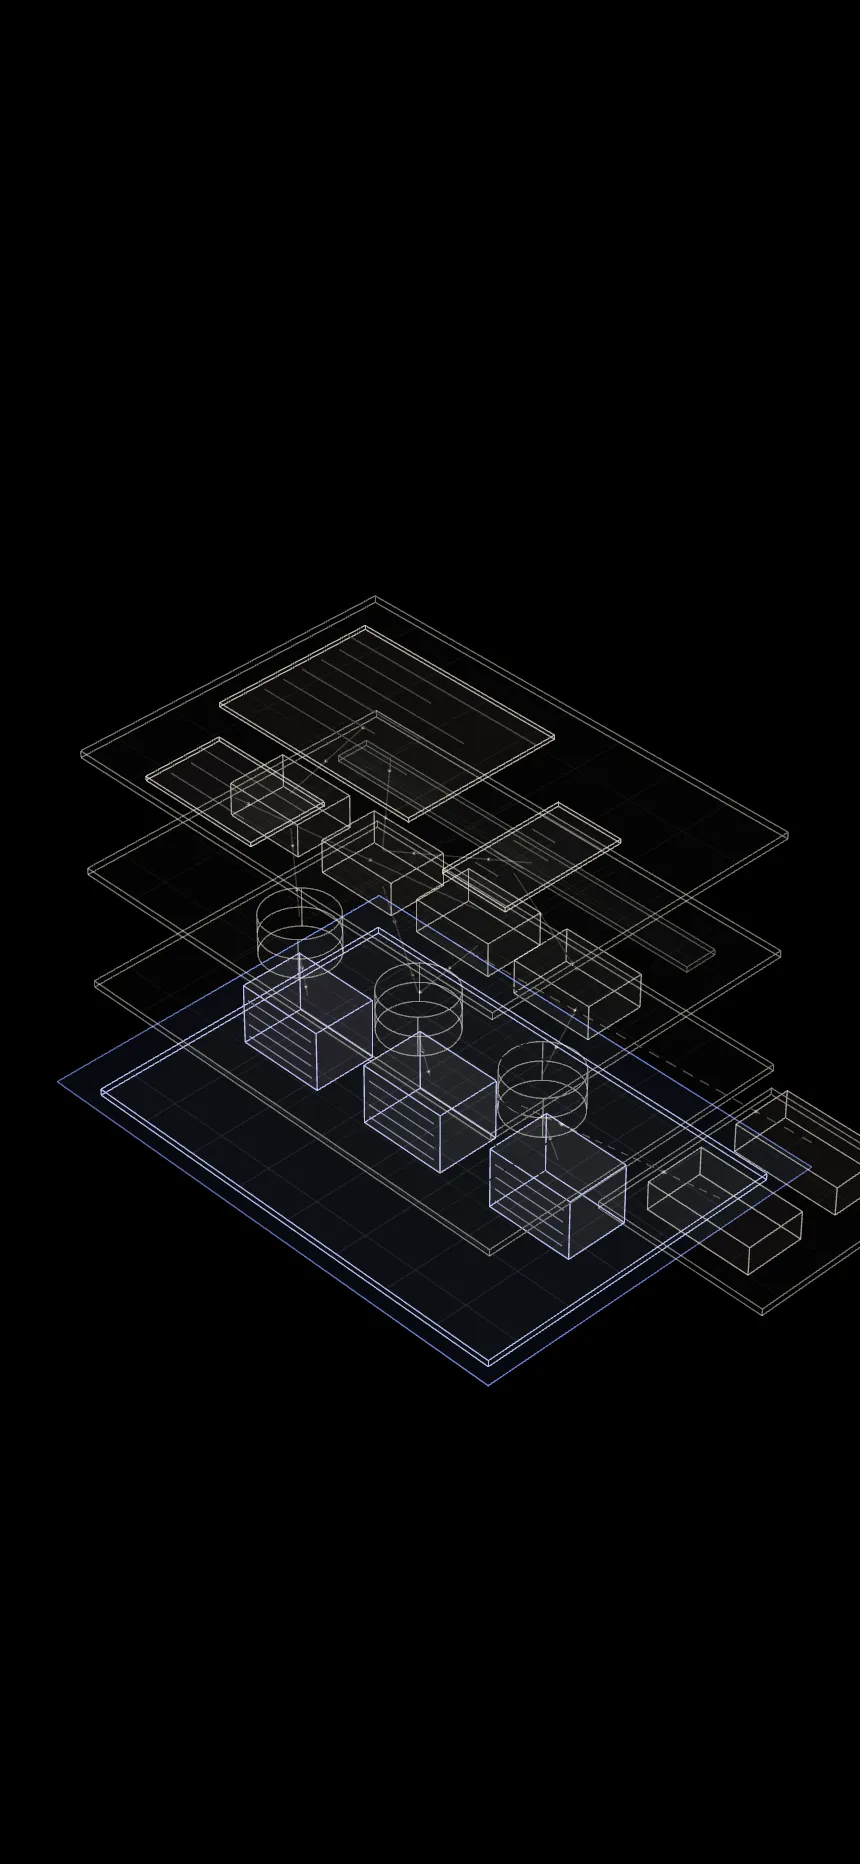
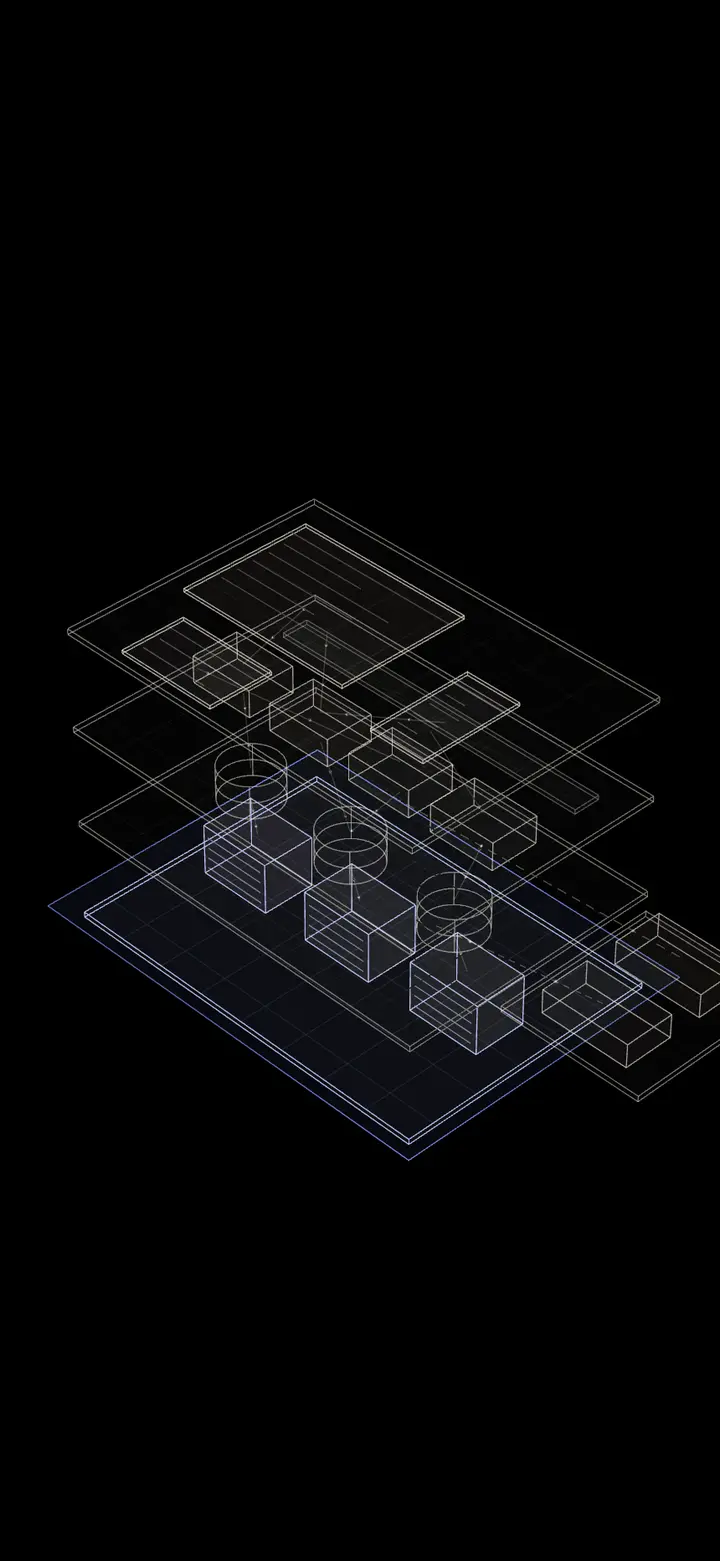
perf+a11y: revisão de qualidade
- Acessibilidade: axe-core sem violações (WCAG A/AA) em 4 páginas e duas
  larguras, com testes automatizados; nome do link de idioma, contraste da
  introdução, rótulo da navegação, âncoras sob o cabeçalho e foco em
  elementos ocultos pelo parallax.
- Desempenho: Three.js e GSAP depois do carregamento; no celular, só na
  primeira interação. Imagens de celular menores. A cena volta a pausar
  quando a galeria ou a seção "sobre" cobrem a tela.
- Servidor local comprime respostas para medições comparáveis.

diff --git a/components/hero/SceneStage.tsx b/components/hero/SceneStage.tsx
@@ -2,6 +2,7 @@
 
 import { useEffect, useRef, useState } from "react";
 import { sceneBus } from "@/lib/sceneBus";
+import { afterInteractionOnTouch } from "@/lib/afterLoad";
 import type { Dictionary } from "@/content/site";
 
 type Props = { map: Dictionary["hero"]["map"] };
@@ -80,18 +81,28 @@ export default function SceneStage({ map }: Props) {
       };
       if (fine && !reduced) window.addEventListener("pointermove", onMove, { passive: true });
 
-      // suspende a renderização quando nenhuma seção que mostra a cena está visível
-      const visible = new Set<Element>();
+      // suspende a renderização quando uma seção opaca cobre a tela inteira
+      // (galeria, "sobre") ou quando a aba fica em segundo plano
+      const opaque = Array.from(document.querySelectorAll<HTMLElement>("[data-opaque]"));
       let pageVisible = !document.hidden;
-      const sync = () => scene.setActive(pageVisible && visible.size > 0);
-      const io = new IntersectionObserver(
-        (entries) => {
-          entries.forEach((en) => (en.isIntersecting ? visible.add(en.target) : visible.delete(en.target)));
-          sync();
-        },
-        { rootMargin: "10% 0px" },
-      );
-      document.querySelectorAll("[data-scene]").forEach((el) => io.observe(el));
+      let pending = false;
+      const sync = () => {
+        pending = false;
+        const vh = window.innerHeight;
+        const covered = opaque.some((el) => {
+          const r = el.getBoundingClientRect();
+          return r.top <= 0 && r.bottom >= vh;
+        });
+        scene.setActive(pageVisible && !covered);
+      };
+      const onScroll = () => {
+        if (pending) return;
+        pending = true;
+        requestAnimationFrame(sync);
+      };
+      window.addEventListener("scroll", onScroll, { passive: true });
+      window.addEventListener("resize", onScroll, { passive: true });
+      sync();
       const onVis = () => {
         pageVisible = !document.hidden;
         sync();
@@ -103,17 +114,16 @@ export default function SceneStage({ map }: Props) {
         mobileQuery.removeEventListener("change", onMq);
         window.removeEventListener("pointermove", onMove);
         document.removeEventListener("visibilitychange", onVis);
-        io.disconnect();
+        window.removeEventListener("scroll", onScroll);
+        window.removeEventListener("resize", onScroll);
         scene.destroy();
       };
     };
 
-    const idle = (cb: () => void) => {
-      const w = window as Window & { requestIdleCallback?: Window["requestIdleCallback"] };
-      if (typeof w.requestIdleCallback === "function") w.requestIdleCallback(cb, { timeout: 600 });
-      else setTimeout(cb, 120);
-    };
-    idle(() => void start());
+    // a cena só carrega depois da página; até lá a imagem estática idêntica fica no lugar
+    void afterInteractionOnTouch().then(() => {
+      if (!disposed) void start();
+    });
 
     return () => {
       disposed = true;

diff --git a/components/site/ScrollDirector.tsx b/components/site/ScrollDirector.tsx
@@ -2,6 +2,7 @@
 
 import { useEffect } from "react";
 import { sceneBus } from "@/lib/sceneBus";
+import { afterInteractionOnTouch } from "@/lib/afterLoad";
 
 /**
  * Liga o scroll nativo (sem sequestro de rolagem) à câmera da cena e às
@@ -14,6 +15,9 @@ export default function ScrollDirector() {
     let cancelled = false;
 
     (async () => {
+      // no celular, só quando a pessoa começa a interagir: os efeitos dependem do scroll
+      await afterInteractionOnTouch();
+      if (cancelled) return;
       const [{ gsap }, { ScrollTrigger }] = await Promise.all([import("gsap"), import("gsap/ScrollTrigger")]);
       if (cancelled) return;
       gsap.registerPlugin(ScrollTrigger);
@@ -78,17 +82,19 @@ export default function ScrollDirector() {
           scrollTrigger: { trigger: "#inicio", start: "top top", end: "bottom top", scrub: 0.6 },
         });
         heroTl
-          .to("[data-parallax='first']", { xPercent: -14, yPercent: -40, opacity: 0.0, ease: "none" }, 0)
-          .to("[data-parallax='last']", { xPercent: 12, yPercent: 50, opacity: 0.0, ease: "none" }, 0)
-          .to("[data-parallax='copy']", { y: -60, opacity: 0, ease: "none" }, 0)
+          .to("[data-parallax='first']", { xPercent: -14, yPercent: -40, autoAlpha: 0, ease: "none" }, 0)
+          .to("[data-parallax='last']", { xPercent: 12, yPercent: 50, autoAlpha: 0, ease: "none" }, 0)
+          // autoAlpha esconde também do foco do teclado quando o bloco some
+          .to("[data-parallax='copy']", { y: -60, autoAlpha: 0, ease: "none" }, 0)
           .to(".hud", { opacity: 0, ease: "none" }, 0);
 
-        // a frase da introdução acende palavra por palavra, controlada pelo scroll
+        // a frase da introdução acende palavra por palavra, controlada pelo scroll.
+        // Parte de um cinza que já passa no contraste mínimo (5:1), não de quase invisível.
         gsap.fromTo(
           "[data-reveal-words] .word",
-          { opacity: 0.16 },
+          { color: "#85817a" },
           {
-            opacity: 1,
+            color: "#ece6da",
             ease: "none",
             stagger: 0.08,
             scrollTrigger: { trigger: "#intro", start: "top 75%", end: "center 45%", scrub: 0.4 },

diff --git a/lib/afterLoad.ts b/lib/afterLoad.ts
@@ -1,0 +1,38 @@
+// Resolve depois do evento "load" e de um momento ocioso da thread principal.
+// Usado para carregar a cena 3D e o GSAP sem disputar a primeira pintura do nome
+// (em celulares lentos isso derrubava o LCP). Até lá, a imagem estática da cena fica visível.
+/**
+ * Em telas de toque, espera também a primeira interação (ou `touchTimeout` ms):
+ * o pacote 3D é pesado para CPUs de celular e a imagem estática é a mesma cena.
+ */
+export function afterInteractionOnTouch(touchTimeout = 5000): Promise<void> {
+  return afterLoad().then(
+    () =>
+      new Promise<void>((resolve) => {
+        if (!window.matchMedia("(pointer: coarse)").matches) return resolve();
+        const events = ["pointerdown", "touchstart", "scroll", "keydown", "wheel"] as const;
+        let done = false;
+        const finish = () => {
+          if (done) return;
+          done = true;
+          events.forEach((e) => window.removeEventListener(e, finish));
+          clearTimeout(timer);
+          resolve();
+        };
+        events.forEach((e) => window.addEventListener(e, finish, { once: true, passive: true }));
+        const timer = window.setTimeout(finish, touchTimeout);
+      }),
+  );
+}
+
+export function afterLoad(idleTimeout = 2500): Promise<void> {
+  return new Promise((resolve) => {
+    const idle = () => {
+      const w = window as Window & { requestIdleCallback?: Window["requestIdleCallback"] };
+      if (typeof w.requestIdleCallback === "function") w.requestIdleCallback(() => resolve(), { timeout: idleTimeout });
+      else setTimeout(resolve, 200);
+    };
+    if (document.readyState === "complete") idle();
+    else window.addEventListener("load", idle, { once: true });
+  });
+}

diff --git a/app/globals.css b/app/globals.css
@@ -32,6 +32,8 @@
 }
 
 html {
+  /* âncoras do menu não ficam escondidas sob o cabeçalho fixo */
+  scroll-padding-top: 88px;
   -webkit-text-size-adjust: 100%;
   text-size-adjust: 100%;
   scroll-behavior: smooth;
@@ -74,6 +76,19 @@ a {
 ::selection {
   background: var(--photon);
   color: #000;
+}
+
+/* texto só para leitores de tela */
+.sr-only {
+  position: absolute;
+  width: 1px;
+  height: 1px;
+  padding: 0;
+  margin: -1px;
+  overflow: hidden;
+  clip: rect(0, 0, 0, 0);
+  white-space: nowrap;
+  border: 0;
 }
 
 .skip {
@@ -400,7 +415,7 @@ main {
 
 .ltr {
   display: inline-block;
-  animation: rise 1.05s calc(var(--i) * 55ms + 120ms) both var(--ease-out);
+  animation: rise 0.8s calc(var(--i) * 40ms + 60ms) both var(--ease-out);
 }
 
 .hero-copy {
@@ -417,7 +432,7 @@ main {
   font-size: clamp(1.45rem, 1.95vw, 2rem);
   line-height: 1.06;
   display: grid;
-  animation: fade-up 0.9s 0.75s both var(--ease-out);
+  animation: fade-up 0.8s 0.5s both var(--ease-out);
 }
 
 .hero-lede {
@@ -425,14 +440,14 @@ main {
   max-width: 34ch;
   color: var(--ivory-dim);
   font-size: 0.98rem;
-  animation: fade-up 0.9s 0.9s both var(--ease-out);
+  animation: fade-up 0.8s 0.62s both var(--ease-out);
 }
 
 .hero-ctas {
   display: flex;
   flex-wrap: wrap;
   gap: 10px;
-  animation: fade-up 0.9s 1.02s both var(--ease-out);
+  animation: fade-up 0.8s 0.74s both var(--ease-out);
 }
 
 .hero-scroll {
@@ -1544,7 +1559,8 @@ main {
 .case-code {
   margin: 0;
   padding: 18px 20px;
-  overflow-x: auto;
+  white-space: pre-wrap;
+  overflow-wrap: anywhere;
   border: 1px solid var(--ivory-faint);
   border-radius: 8px;
   background: var(--surface);

diff --git a/tests/a11y.spec.ts b/tests/a11y.spec.ts
@@ -1,0 +1,31 @@
+import AxeBuilder from "@axe-core/playwright";
+import { expect, test } from "@playwright/test";
+
+// Auditoria automática (axe-core, regras WCAG 2.0/2.1/2.2 A e AA).
+// Movimento reduzido para medir o estado final das animações de entrada.
+const PAGES = ["/pt/", "/en/", "/pt/cases/ebinex/", "/en/cases/student/"];
+
+for (const path of PAGES) {
+  for (const vp of [
+    { name: "desktop", width: 1440, height: 900 },
+    { name: "celular", width: 375, height: 812 },
+  ]) {
+    test(`axe sem violações em ${path} (${vp.name})`, async ({ browser }) => {
+      const ctx = await browser.newContext({ viewport: { width: vp.width, height: vp.height }, reducedMotion: "reduce" });
+      const page = await ctx.newPage();
+      await page.goto(path);
+      await page.waitForTimeout(1200);
+      const results = await new AxeBuilder({ page })
+        .withTags(["wcag2a", "wcag2aa", "wcag21a", "wcag21aa", "wcag22aa", "best-practice"])
+        .analyze();
+      const summary = results.violations.map((v) => ({
+        id: v.id,
+        impact: v.impact,
+        count: v.nodes.length,
+        targets: v.nodes.slice(0, 3).map((n) => n.target.join(" ")),
+      }));
+      expect(summary, JSON.stringify(summary, null, 2)).toEqual([]);
+      await ctx.close();
+    });
+  }
+}

diff --git a/components/site/SiteHeader.tsx b/components/site/SiteHeader.tsx
@@ -42,7 +42,7 @@ export default function SiteHeader({ t, lang, base = "", switchHref }: Props) {
         <span className="mark-text">João Morais</span>
       </a>
 
-      <nav className="nav" aria-label={t.nav.menu}>
+      <nav className="nav" aria-label={lang === "pt" ? "Navegação principal" : "Main navigation"}>
         <ul id="site-nav" className="nav-list">
           {links.map((l) => (
             <li key={l.href}>
@@ -52,8 +52,9 @@ export default function SiteHeader({ t, lang, base = "", switchHref }: Props) {
             </li>
           ))}
           <li className="nav-lang">
-            <a href={switchHref ?? `/${other}/`} hrefLang={other === "pt" ? "pt-BR" : "en"} lang={other === "pt" ? "pt-BR" : "en"} aria-label={t.nav.switchLabel}>
+            <a href={switchHref ?? `/${other}/`} hrefLang={other === "pt" ? "pt-BR" : "en"} lang={other === "pt" ? "pt-BR" : "en"}>
               {t.nav.switchTo}
+              <span className="sr-only"> ({t.nav.switchLabel})</span>
             </a>
           </li>
         </ul>

diff --git a/tests/portfolio.spec.ts b/tests/portfolio.spec.ts
@@ -111,10 +111,10 @@ test.describe("cena WebGL e alternativas", () => {
   test("a renderização pausa quando a cena sai de vista e volta no contato", async ({ page }) => {
     await page.goto("/pt/");
     await expect(page.locator(".stage")).toHaveAttribute("data-mode", "live", { timeout: 15_000 });
-    await page.locator("#sobre").scrollIntoViewIfNeeded();
+    // a seção "sobre" é opaca e mais alta que a tela: com o topo dela no alto, a cena fica coberta
     await page.evaluate(() => {
       const r = document.querySelector("#sobre")!.getBoundingClientRect();
-      window.scrollTo(0, r.top + window.scrollY + 40);
+      window.scrollTo(0, r.top + window.scrollY + 10);
     });
     await expect(page.locator(".stage-canvas")).toHaveAttribute("data-active", "false");
     await page.locator("#contato").scrollIntoViewIfNeeded();

diff --git a/components/work/Featured.tsx b/components/work/Featured.tsx
@@ -34,6 +34,8 @@ export default function Featured({ project, t, lang }: { project: Project; t: Di
           <figure className="device-phone">
             <img
               src={`${base}-mobile-520.webp`}
+              srcSet={`${base}-mobile-320.webp 320w, ${base}-mobile-520.webp 520w`}
+              sizes="(max-width: 760px) 34vw, 260px"
               width={520}
               height={1125}
               loading="lazy"

diff --git a/components/work/CasePage.tsx b/components/work/CasePage.tsx
@@ -59,6 +59,8 @@ export default function CasePage({ t, lang, project, study, next }: Props) {
           <div className="case-phone">
             <img
               src={`${base}-mobile-520.webp`}
+              srcSet={`${base}-mobile-320.webp 320w, ${base}-mobile-520.webp 520w`}
+              sizes="(max-width: 760px) 34vw, 260px"
               width={520}
               height={1125}
               loading="lazy"

diff --git a/components/site/AboutContact.tsx b/components/site/AboutContact.tsx
@@ -2,7 +2,7 @@ import { LINKS, type Dictionary } from "@/content/site";
 
 export function About({ t }: { t: Dictionary }) {
   return (
-    <section className="about" id="sobre" aria-labelledby="about-title">
+    <section className="about" id="sobre" data-opaque aria-labelledby="about-title">
       <figure className="about-photo">
         <img
           src="/media/about/joao-morais-1100.webp"

diff --git a/components/work/SqueezeGallery.tsx b/components/work/SqueezeGallery.tsx
@@ -25,7 +25,7 @@ export default function SqueezeGallery({ projects, t, lang }: { projects: Projec
   };
 
   return (
-    <div className="gallery">
+    <div className="gallery" data-opaque>
       <div className="gallery-head">
         <h3 className="gallery-title">{t.work.galleryHeading}</h3>
         <p className="gallery-hint">{t.work.galleryHint}</p>

diff --git a/docs/memory/PROGRESS.md b/docs/memory/PROGRESS.md
@@ -65,3 +65,17 @@ cases sanitizados de projetos privados (com autorização), limpeza da documenta
   Branches de recurso já incorporados foram apagados. Cópia do histórico antigo em
   `_audit_runtime/historico-antes-da-limpeza-2026-11-21.bundle` (fora do Git).
 - Repositório tornado público, com o site como homepage. Vercel seguiu publicando; 23/23 testes em produção.
+
+## 2026-11-21 — Revisão de qualidade (prévia)
+
+- Branch `feat/quality-pass`. axe-core (WCAG 2.0/2.1/2.2 A e AA + boas práticas) em 4 páginas × desktop/celular: 0 violações.
+  Corrigido: nome acessível do link de idioma ("EN (Read in English)"), bloco de comandos que rolava sem foco,
+  contraste da frase da introdução (agora acende de #85817a), rótulo da navegação, âncoras sob o cabeçalho fixo,
+  links ocultos pelo parallax saem do foco (autoAlpha).
+- Desempenho: cena 3D e GSAP carregam depois do `load`; em telas de toque, só na primeira interação ou após 5 s
+  (a imagem estática é a mesma cena). Telas de celular com variante 320w. Pausa da cena agora por cobertura de seção opaca
+  (antes, com a seção de segurança, ela nunca pausava).
+- Lighthouse local (servidor com brotli): celular 82–91 de desempenho (antes 77 em produção), acessibilidade 100,
+  boas práticas 100, SEO 100; desktop 97–100. LCP de laboratório no celular segue ~3,1–3,3 s (hidratação do React
+  na CPU simulada); fontes e animação do nome foram testadas e descartadas como causa.
+- Segurança: npm audit 0, OSV-Scanner 0 (74 pacotes), Semgrep 0 alertas (30 arquivos). 31/31 testes.
